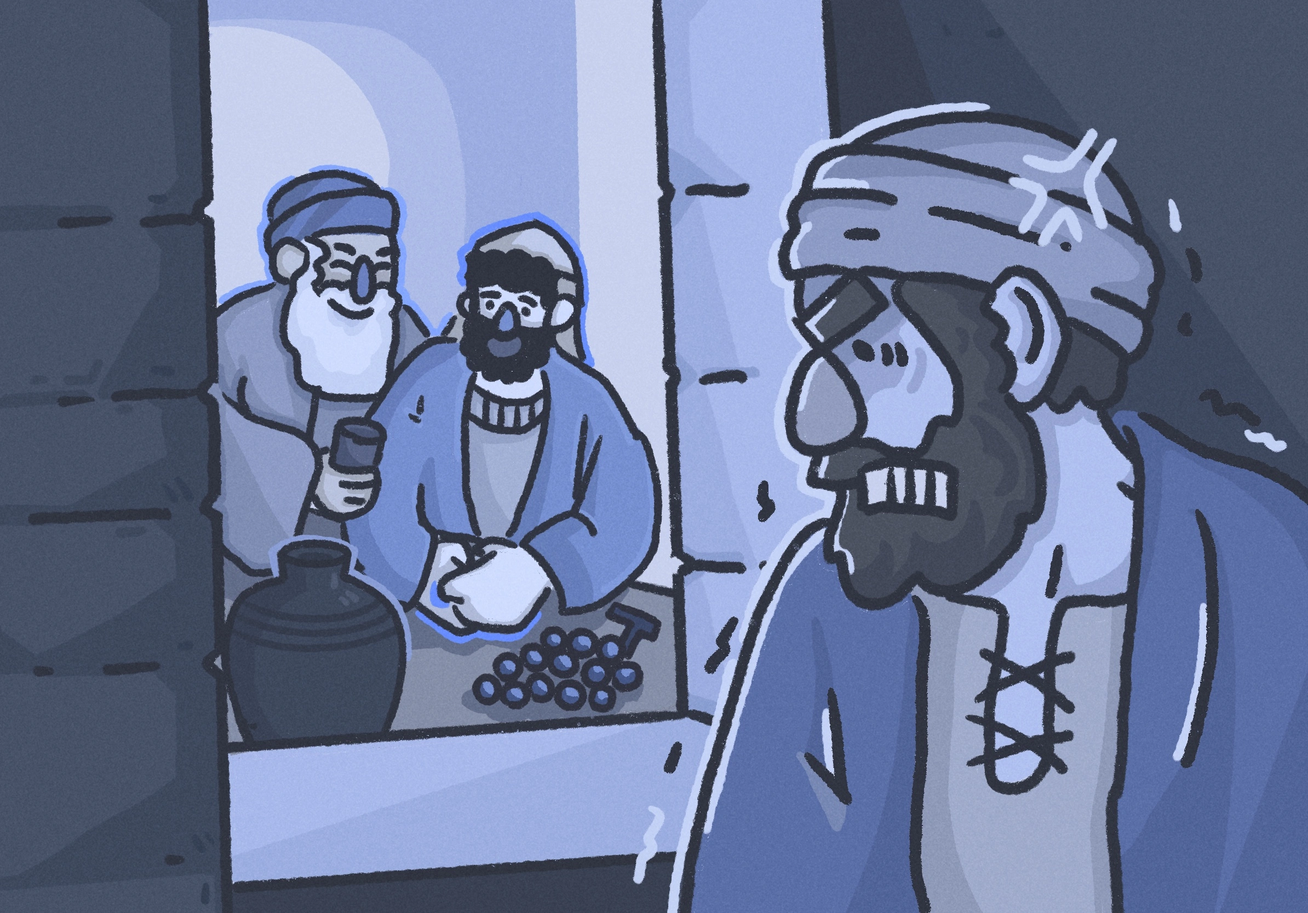
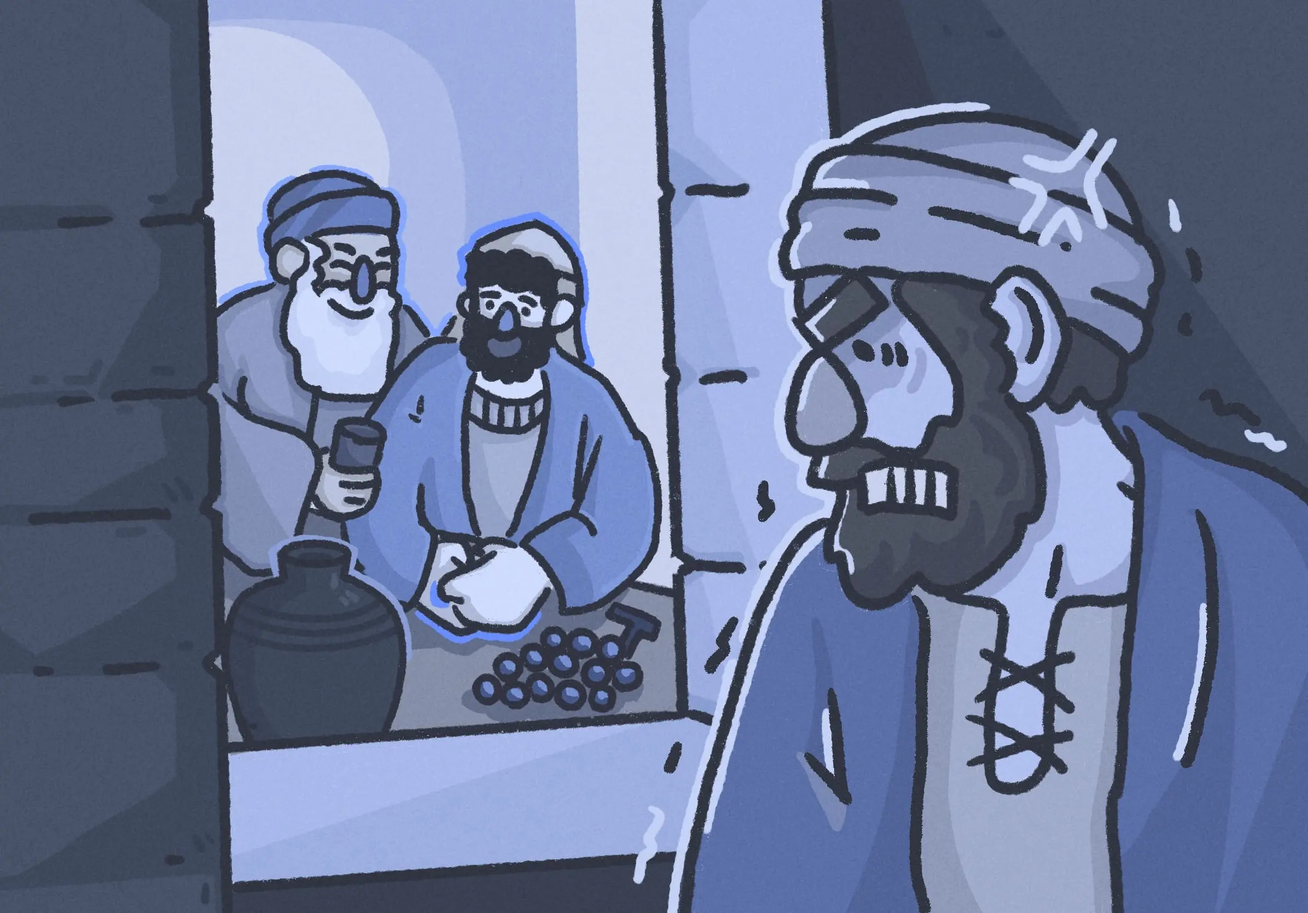
Add from atom

diff --git a/Content.html b/Content.html
@@ -16,7 +16,7 @@
 			<div class="box">
 				<h2 class="title"><span>循環「小樹」</span></h2>
 				<div class="pic_txt_list">
-					<div class="pic"><img rel="preload" src="./Image/Cover.jpg"></div>
+					<div class="pic"><img rel="preload" src="./Image/Cover.webp"></div>
 					<div class="wenZi">
 						<p class="info"><span>作者: 岑明雲、洪以樂、林月娥、李虹昱</span></p>
 						<p class="info"><span>繪者: 曾楷岩</span></p>
@@ -31,76 +31,76 @@
 			<div class="box">
 				<h2 class="title"><span>目錄</span></h2>
 				<div class="muLu">
-					<div class="picZhi"><img rel="preload" src="./Image/Ch0.jpg"></div>
+					<div class="picZhi"><img rel="preload" src="./Image/Ch0.webp"></div>
 					<p><a href="./Chapter_0.html"><font size="4"><strong>第0章 開端</strong></font></a></p>
 					<p><font size="3">　　登場人物：小樹（主角）</font></p>
 				</div>
 				<hr color="#dddddd">
 				<div class="muLu">
-					<div class="picHeng"><img rel="preload" src="./Image/Ch1.jpg"></div>
+					<div class="picHeng"><img rel="preload" src="./Image/Ch1.webp"></div>
 					<p><a href="./Chapter_1.html"><font size="4"><strong>第1章 你怎麼又走了？</strong></font></a></p>
 					<p><font size="3">　　登場人物：猶太人（小樹）、兩名路人</font></p>
 					<p class="jingWen"><font size="3"> ── 路10:25~32</font></p>
 				</div>
 				<hr color="#dddddd">
 				<div class="muLu">
-					<div class="picZhi"><img rel="preload" src="./Image/Ch2.jpg"></div>
+					<div class="picZhi"><img rel="preload" src="./Image/Ch2.webp"></div>
 					<p><a href="./Chapter_2.html"><font size="4"><strong>第2章 這些都是我的財產！</strong></font></a></p>
 					<p><font size="3">　　登場人物：財主（小樹）、管家、僕人</font></p>
 					<p class="jingWen"><font size="3"> ── 路12:13~21</font></p>
 				</div>
 				<hr color="#dddddd">
 				<div class="muLu">
-					<div class="picZhi"><img rel="preload" src="./Image/Ch3.jpg"></div>
+					<div class="picZhi"><img rel="preload" src="./Image/Ch3.webp"></div>
 					<p><a href="./Chapter_3.html"><font size="4"><strong>第3章 薪水小偷</strong></font></a></p>
 					<p><font size="3">　　登場人物：管家（小樹）、主人</font></p>
 					<p class="jingWen"><font size="3"> ── 路16:1~13</font></p>
 				</div>
 				<hr color="#dddddd">
 				<div class="muLu">
-					<div class="picZhi"><img rel="preload" src="./Image/Ch4.jpg"></div>
+					<div class="picZhi"><img rel="preload" src="./Image/Ch4.webp"></div>
 					<p><a href="./Chapter_4.html"><font size="4"><strong>第4章 從來都沒有看到過</strong></font></a></p>
 					<p><font size="3">　　登場人物：拉撒路（小樹）、亞伯拉罕、財主</font></p>
 					<p class="jingWen"><font size="3"> ── 路16:19~31</font></p>
 				</div>
 				<hr color="#dddddd">
 				<div class="muLu">
-					<div class="picHeng"><img rel="preload" src="./Image/Ch5.jpg"></div>
+					<div class="picHeng"><img rel="preload" src="./Image/Ch5.webp"></div>
 					<p><a href="./Chapter_5.html"><font size="4"><strong>第5章 你要一起來嗎？</strong></font></a></p>
 					<p><font size="3">　　登場人物：奧倫（小樹）、講者、瞎子</font></p>
 					<p class="jingWen"><font size="3"> ── 路14:1~14</font></p>
 				</div>
 				<hr color="#dddddd">
 				<div class="muLu">
-					<div class="picHeng"><img rel="preload" src="./Image/Ch6.jpg"></div>
+					<div class="picHeng"><img rel="preload" src="./Image/Ch6.webp"></div>
 					<p><a href="./Chapter_6.html"><font size="4"><strong>第6章 逃、逃離</strong></font></a></p>
 					<p><font size="3">　　登場人物：大兒子（小樹）、父親、小兒子</font></p>
 					<p class="jingWen"><font size="3"> ── 路15:11~32</font></p>
 				</div>
 				<hr color="#dddddd">
 				<div class="muLu">
-					<div class="picZhi"><img rel="preload" src="./Image/Ch7.jpg"></div>
+					<div class="picZhi"><img rel="preload" src="./Image/Ch7.webp"></div>
 					<p><a href="./Chapter_7.html"><font size="4"><strong>第7章 啾啾啾啾啾啾啾</strong></font></a></p>
 					<p><font size="3">　　登場人物：鳥（小樹）、法利賽人、稅吏</font></p>
 					<p class="jingWen"><font size="3"> ── 路18:9~14</font></p>
 				</div>
 				<hr color="#dddddd">
 				<div class="muLu">
-					<div class="picZhi"><img rel="preload" src="./Image/Ch8.jpg"></div>
+					<div class="picZhi"><img rel="preload" src="./Image/Ch8.webp"></div>
 					<p><a href="./Chapter_8.html"><font size="4"><strong>第8章 等一下！</strong></font></a></p>
 					<p><font size="3">　　登場人物：女人（小樹）、耶穌</font></p>
 					<p class="jingWen"><font size="3"> ── 路13:6~17</font></p>
 				</div>
 				<hr color="#dddddd">
 				<div class="muLu">
-					<div class="picHeng"><img rel="preload" src="./Image/Ch9.jpg"></div>
+					<div class="picHeng"><img rel="preload" src="./Image/Ch9.webp"></div>
 					<p><a href="./Chapter_9.html"><font size="4"><strong>第9章 放下包袱</strong></font></a></p>
 					<p><font size="3">　　登場人物：猶太人（小樹）、撒馬利亞人</font></p>
 					<p class="jingWen"><font size="3"> ── 路10:33~37</font></p>
 				</div>
 				<hr color="#dddddd">
 				<div class="muLu">
-					<div class="picZhi"><img rel="preload" src="./Image/Ch10.jpg"></div>
+					<div class="picZhi"><img rel="preload" src="./Image/Ch10.webp"></div>
 					<p><a href="./Chapter_10.html"><font size="4"><strong>第10章 新的開端</strong></font></a></p>
 					<p><font size="3">　　登場人物：小樹（主角）、小豬</font></p>
 				</div>

diff --git a/Chapter_6.html b/Chapter_6.html
@@ -46,7 +46,7 @@
 
         <hr><br>
 
-        <div class="picHeng"><img rel="preload" src="./Image/Ch6.jpg"></div>
+        <div class="picHeng"><img rel="preload" src="./Image/Ch6.webp"></div>
 
         <div>　　一股和煦的暖意攀上我的面龐，半瞇著睜開眼，黃澄澄的餘暉與麥浪相互交映。和風襲來，下意識拭去臉頰的汗珠，伸了個滿滿的懶腰，起身離開斑駁交雜的一片樹蔭，久坐而微麻雙腳不禁踉蹌，被身旁散亂的農具絆倒。</div>
         <div>　　下盤反射性穩住上身，看來，這副身體有練過嘛！我撩起衣袖，滿意地欣賞自己緊實的肌肉線條，真不愧是辛勤耕耘的農人，不知道這樣的體脂會是多少，我害羞地笑了。開心地提起農具，準備回家。想起一片黃金麥浪，嘴角不禁上揚，要趕快把這個好消息告訴父親，弟弟離家二十年，父親總少有笑容，希望這次豐收能讓他歡喜。</div>

diff --git a/Chapter_3.html b/Chapter_3.html
@@ -45,7 +45,7 @@
 
         <hr><br>
 
-        <div class="picZhi"><img rel="preload" src="./Image/Ch3.jpg"></div>
+        <div class="picZhi"><img rel="preload" src="./Image/Ch3.webp"></div>
 
         <div>　　怎麼會這樣？這穿越系統明顯出錯了吧，我揉了揉雙眼，簡直不可置信。沒有新建的倉房，也沒有我的專屬「游泳池」，這到底是哪裡？啊啊我知道了，這肯定是夢中夢吧，就像電影《全面啟動》演的那樣，不擔心不擔心。我邊擦去頰邊冷汗，邊再次用力的閉上眼睛，希望過一會睜眼，就又是熟悉的大把產業環繞身邊。</div>
         <div>　　不久，我感到有人用力拍我的肩膀，哇塞，也太失禮了吧，我最討厭別人這樣拍我的肩膀。朦朧間睜開雙眼，映出一個僕從裝束的身影，太好了，看來我終於回到財主的身分。</div>

diff --git a/Chapter_5.html b/Chapter_5.html
@@ -43,7 +43,7 @@
 
         <hr><br>
 
-        <div class="picHeng"><img rel="preload" src="./Image/Ch5.jpg"></div>
+        <div class="picHeng"><img rel="preload" src="./Image/Ch5.webp"></div>
 
         <div>　　我再次抬頭，然而⋯⋯ 這裡是哪裡？我剛剛不是還在天堂嗎！怎麼只是一閉眼、再一睜眼，眼前的景色又發生了天翻地覆的變化？這是，回到人間了？！</div>
         <div>　　環顧一下四周，發現我正坐在一個石階上，周圍也都坐著其他人。呃，說是石階好像也不太對，因為只有三、四層而已。石階圍成一個長方形，最下面站著一人，披一個長長的圍巾，圍巾尾端有好幾條鬚鬚，手上拿著一張紙在演講。這個場景讓我想到學校的小型體育館，只不過是觀眾席只有三、四排，且位在一樓。</div>

diff --git a/Chapter_10.html b/Chapter_10.html
@@ -33,7 +33,7 @@
 
       <div class="story" id="story">
 
-        <div class="picZhi"><img rel="preload" src="./Image/Ch10.jpg"></div>
+        <div class="picZhi"><img rel="preload" src="./Image/Ch10.webp"></div>
 
         <div>　　小樹感到有人將自己從地上扶起，搖搖晃晃之間，視線慢慢恢復、清晰。揉揉雙眼，面前還是舊公寓的大門。那，剛剛是誰？「社長大人，你也太不小心了吧！」背後的聲音調侃打趣道。「小豬？你怎麼？」小樹轉頭一看，沒想到班上同學竟在地上幫自己收拾散落一地的課本。小豬是小樹的同班同學，只是一直沒怎麼打過交道。</div>
         <div>　　「齁，兩年了耶，你不知道我們是鄰居嗎？剛剛還坐同一台公車好嗎？真是的。」</div>

diff --git a/Chapter_1.html b/Chapter_1.html
@@ -43,7 +43,7 @@
 
         <hr><br>
 
-        <div class="picHeng"><img rel="preload" src="./Image/Ch1.jpg"></div>
+        <div class="picHeng"><img rel="preload" src="./Image/Ch1.webp"></div>
 
         <div>　　跟著天旋地轉而來的，是前胸穿透後背的劇痛，這完全超出我對一般跌倒的認知。</div>
         <div>　　我趴倒在地上，四肢大開，像散落的棉花。雙手出力想撐著起身體，沒想到大腦指令傳達失敗，手指微微顫動，一切又歸於平靜。我奮力睜開浮腫的雙眼，視線從模糊漸轉清晰。只見四周黃土一片，都是乾燥的山壁。</div>

diff --git a/Chapter_0.html b/Chapter_0.html
@@ -32,7 +32,7 @@
       <div class="title"><strong>第0章 開端</strong></div>
 
       <div class="story" id="story">
-        <div class="picZhi"><img rel="preload" src="./Image/Ch0.jpg"></div>
+        <div class="picZhi"><img rel="preload" src="./Image/Ch0.webp"></div>
 
         <div>　　「唉！」輕輕嘆了一口氣，小樹不耐地捋平濕皺的襪子，雙足扭動探入，冬日黏膩的陰雨瞬吸而上，啪唧啪唧從腳掌灌滿足踝，像飽餐後不饜的水蛭，仍舊貪婪。</div>
         <div>　　跟水蛭一樣甩不開的，還有這一週的爛心情。</div>

diff --git a/Chapter_8.html b/Chapter_8.html
@@ -44,7 +44,7 @@
 
         <hr><br>
 
-        <div class="picZhi"><img rel="preload" src="./Image/Ch8.jpg"></div>
+        <div class="picZhi"><img rel="preload" src="./Image/Ch8.webp"></div>
 
         <div>　　「萬幸，穿越救了我！」這是我睜開眼後冒出的第一個想法。</div>
         <div>　　雖然每一次的穿越都毫無徵兆，而且捉摸不定。但不得不承認，這一次穿越的時機抓的特別好，否則我就要成為法利賽人腳下的孤魂了。這若是講出去，比穿越成一隻鳥還令人難以置信。</div>

diff --git a/Chapter_4.html b/Chapter_4.html
@@ -45,7 +45,7 @@
 
         <hr><br>
 
-        <div class="picZhi"><img rel="preload" src="./Image/Ch4.jpg"></div>
+        <div class="picZhi"><img rel="preload" src="./Image/Ch4.webp"></div>
 
         <div>　　「啪！」眼前一黑，伴隨熟悉的天旋地轉與太陽穴陣陣灼燒感，身體彷彿被強力磁石猛地吸向前，倏地又鬆開，失重墜落。</div>
         <div>　　「又來了，又來了。」我心裡暗自嘀咕，雖然物理沒學好，但這樣迅速下墜，即便身為穿越主角，怕是不死也重傷。</div>

diff --git a/Chapter_7.html b/Chapter_7.html
@@ -40,7 +40,7 @@
 
         <hr><br>
 
-        <div class="picZhi"><img rel="preload" src="./Image/Ch7.jpg"></div>
+        <div class="picZhi"><img rel="preload" src="./Image/Ch7.webp"></div>
 
         <div>　　靠在父親溫暖的懷抱中，情緒漸漸被安撫下來，我發現其實我忽略了很多的事情。例如弟弟出走後又回家，是多麼的難能可貴；例如弟弟離家後，我的心也跟著離家，轉身投入麥田裡。</div>
         <div>　　我睜開眼睛，想跟父親一起回家，但是⋯⋯ </div>

diff --git a/Chapter_2.html b/Chapter_2.html
@@ -41,7 +41,7 @@
 
         <hr><br>
 
-        <div class="picZhi"><img rel="preload" src="./Image/Ch2.jpg"></div>
+        <div class="picZhi"><img rel="preload" src="./Image/Ch2.webp"></div>
 
         <div>　　像置身於漆黑的冰窖之中，除了寒冷以外，只剩下無盡的黑暗。我頭一次知道，空氣安靜到極致，如同瀰漫著濃稠的墨汁，充滿著令人窒息的壓迫感。</div>
         <div>　　「我這是死了嗎？」口中喃喃低語，聲音宛如被吞噬般，竟聽不到任何聲響。</div>

diff --git a/Chapter_9.html b/Chapter_9.html
@@ -40,7 +40,7 @@
 
         <hr><br>
 
-        <div class="picHeng"><img rel="preload" src="./Image/Ch9.jpg"></div>
+        <div class="picHeng"><img rel="preload" src="./Image/Ch9.webp"></div>
 
         <div>　　一陣風沙吹過，睜眼後的世界，又是原初的一片黃土，兩行山壁。</div>
         <div>　　不會吧，經歷這麼多角色轉換，我竟然又回到了這副傷痕累累的軀殼？！這穿越是循環小數嗎？就算我叫小樹，也不要這麼搞我啊！</div>
